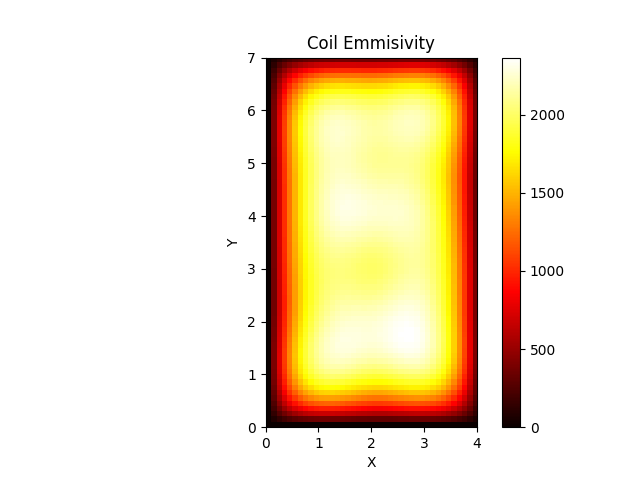
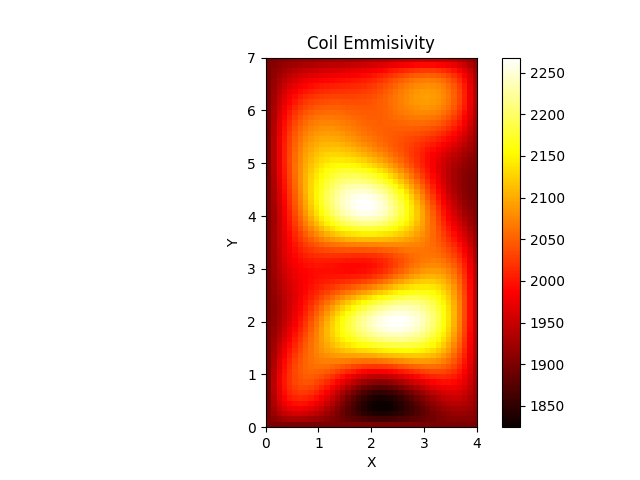
a

diff --git a/coil_heatmap.py b/coil_heatmap.py
@@ -4,7 +4,7 @@ from scipy.interpolate import interp2d
 
 def interpolate_heatmap(data, x_dist, y_dist):
     # padding the data with zeros
-    data = np.pad(data, ((1, 1), (1, 1)), mode='constant')
+    data = np.pad(data, ((1, 1), (1, 1)), mode='constant' ,constant_values=1900)
     
     # Get dimensions of the input data
     n, m = data.shape
